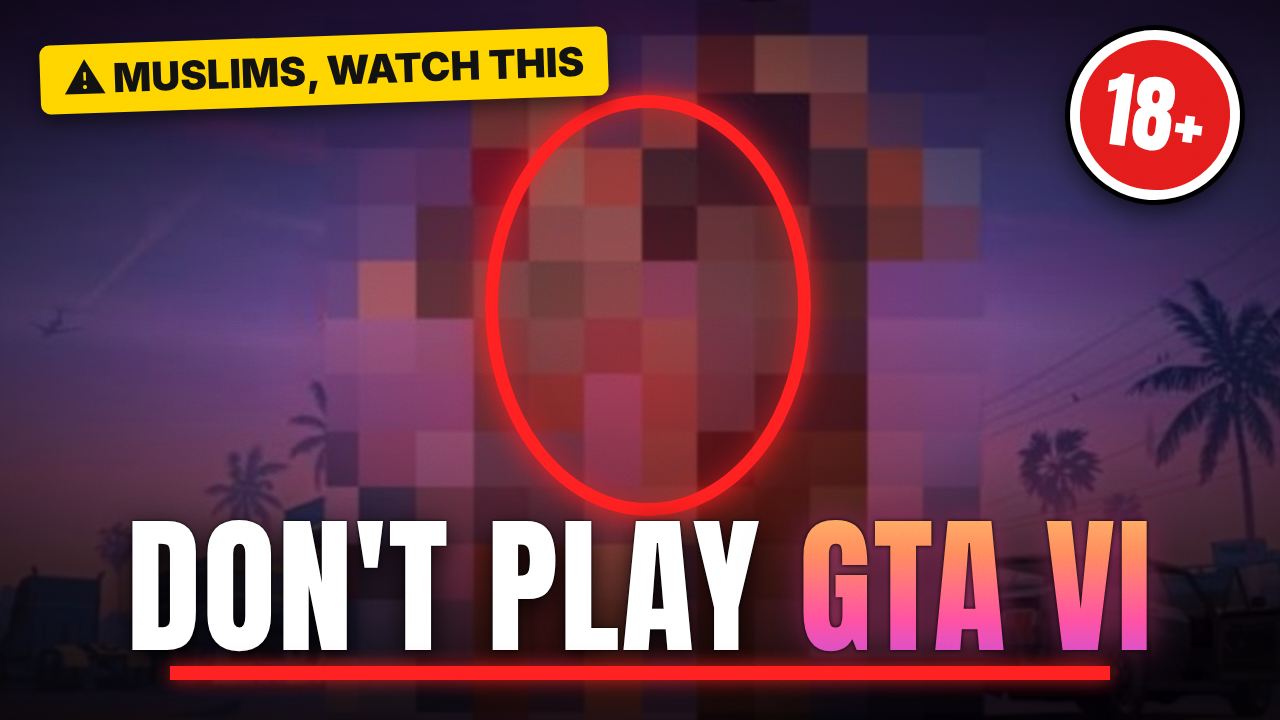
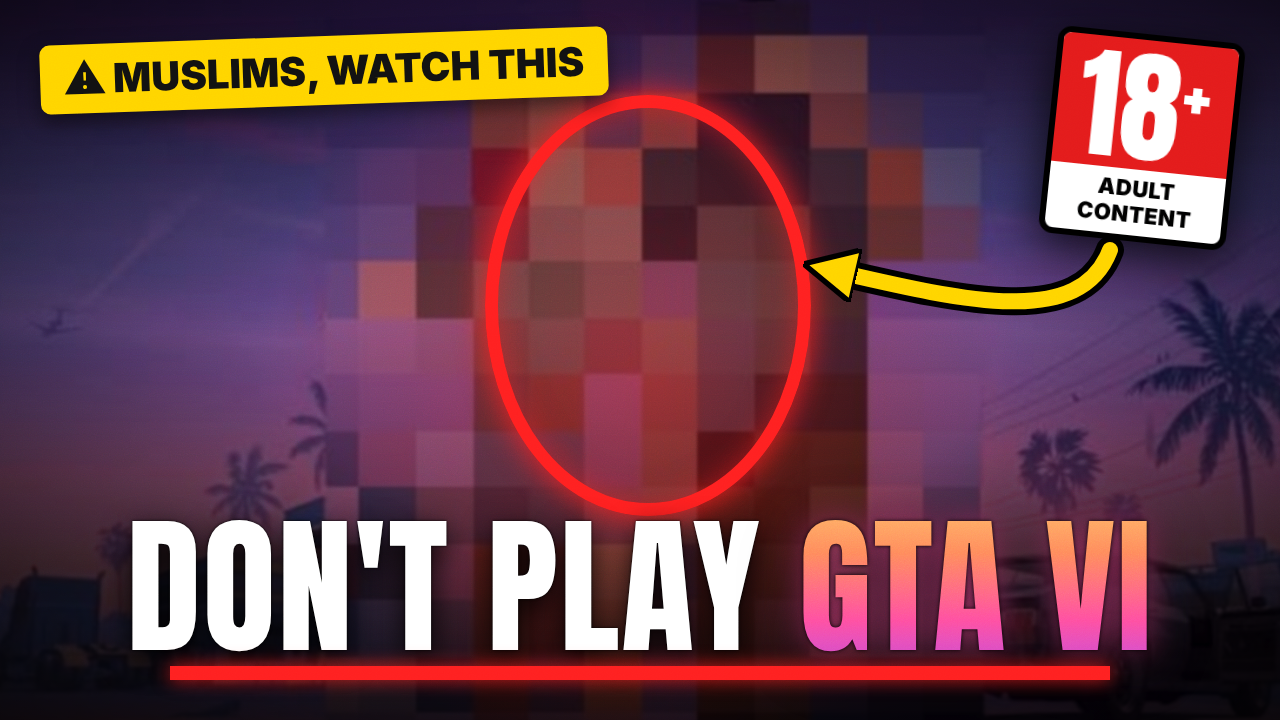
GTA VI thumbnail: rating-box 18+ badge with arrow to circled figure
Claude-Session: https://claude.ai/code/session_01QVTU5PaE9KihLGBMkdjEyk

Changed region(s): [[0.625, 0.0306, 1.0, 0.4583]]

diff --git a/thumbnails/02-gta6/thumbnail.html b/thumbnails/02-gta6/thumbnail.html
@@ -19,7 +19,17 @@ html,body{margin:0;width:1280px;height:720px;overflow:hidden;background:#2a0505}
 </style></head><body>
 <div class="bg"></div><div class="tint"></div><div class="redglow"></div><div class="vig"></div>
 <div class="ring"></div>
-<div style="position:absolute;right:40px;top:30px;width:150px;height:150px;border-radius:50%;background:#E31B1B;border:10px solid #fff;box-shadow:0 0 0 5px #000,0 10px 26px rgba(0,0,0,.7);display:flex;align-items:center;justify-content:center;transform:rotate(8deg)"><span style="font:84px Anton;color:#fff;letter-spacing:1px;line-height:1">18+</span></div>
+<div style="position:absolute;right:44px;top:34px;transform:rotate(6deg);filter:drop-shadow(0 12px 22px rgba(0,0,0,.75))">
+  <div style="width:176px;background:#fff;border:6px solid #000;border-radius:14px;overflow:hidden;text-align:center">
+    <div style="background:#E31B1B;padding:6px 0 2px;font:122px Anton;line-height:1;color:#fff;letter-spacing:1px">18<span style="font-size:80px;vertical-align:top">+</span></div>
+    <div style="font:900 22px Inter;color:#000;padding:6px 0 8px;letter-spacing:.5px">ADULT CONTENT</div>
+  </div>
+</div>
+<svg width="1280" height="720" style="position:absolute;inset:0;overflow:visible">
+  <defs><marker id="ah18" viewBox="0 0 10 10" refX="5" refY="5" markerWidth="3.4" markerHeight="3.4" orient="auto"><path d="M0,0 L10,5 L0,10 z" fill="#FFD400" stroke="#000" stroke-width="1"/></marker></defs>
+  <path d="M1110,250 C1080,330 960,300 830,270" fill="none" stroke="#000" stroke-width="28" stroke-linecap="round"/>
+  <path d="M1110,250 C1080,330 960,300 830,270" fill="none" stroke="#FFD400" stroke-width="16" stroke-linecap="round" marker-end="url(#ah18)"/>
+</svg>
 <div class="tag">⚠ MUSLIMS, WATCH THIS</div>
 <div class="cap">DON'T PLAY <span>GTA VI</span></div>
 <div class="underline"></div>
